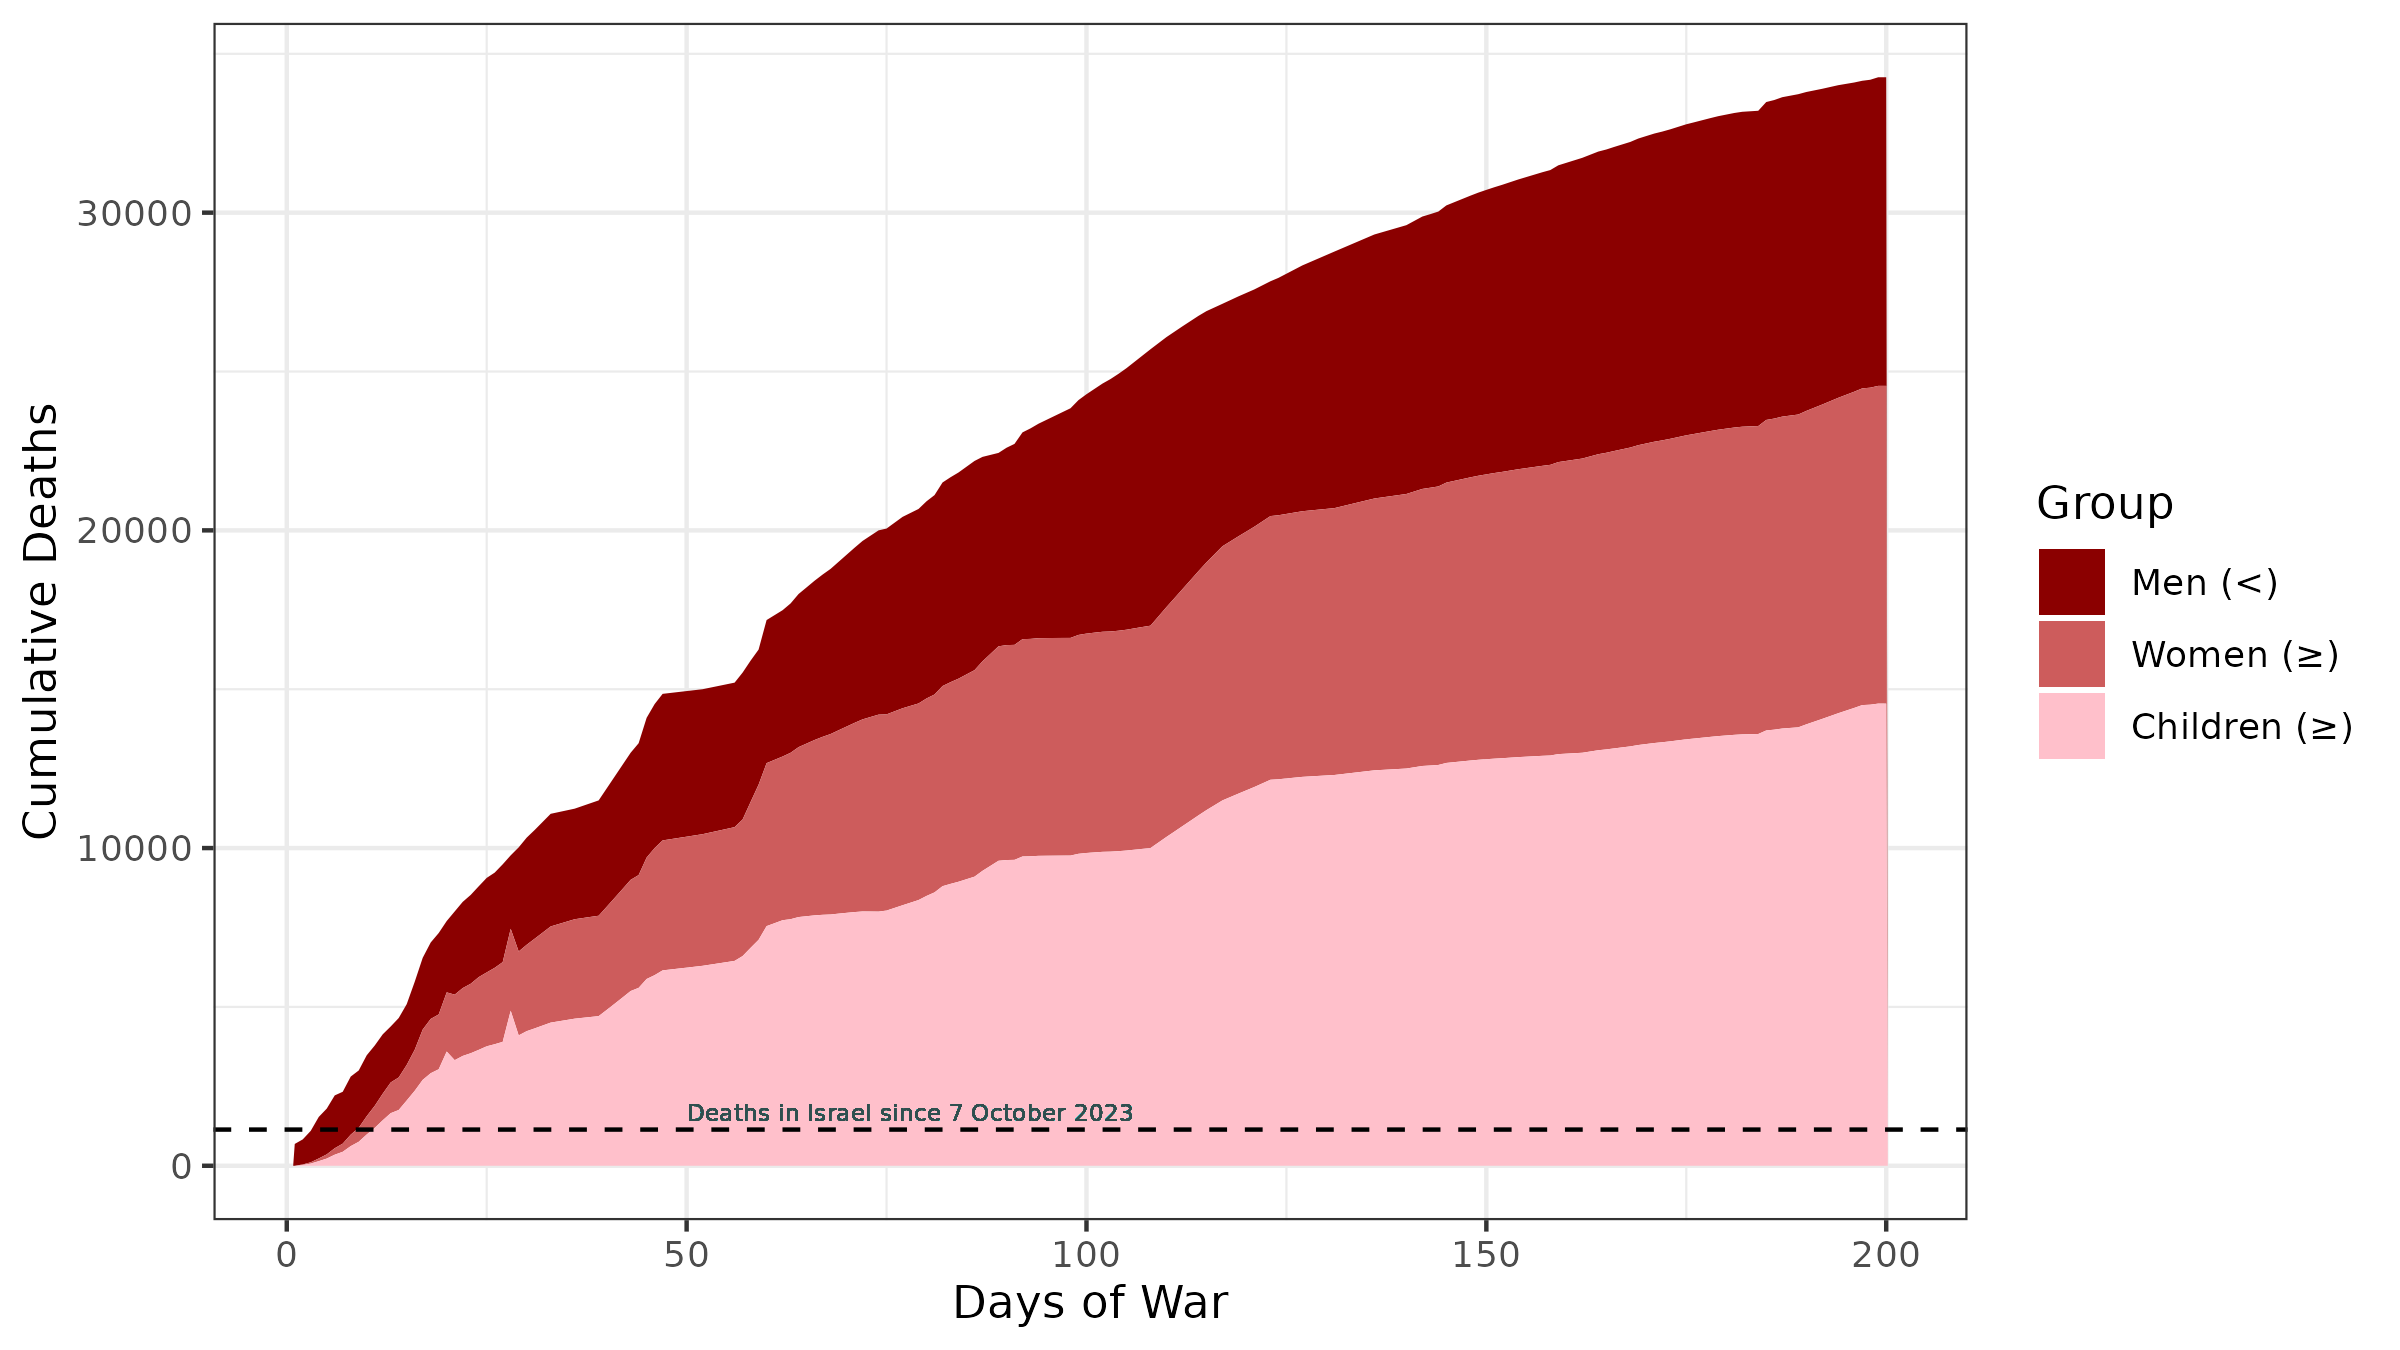
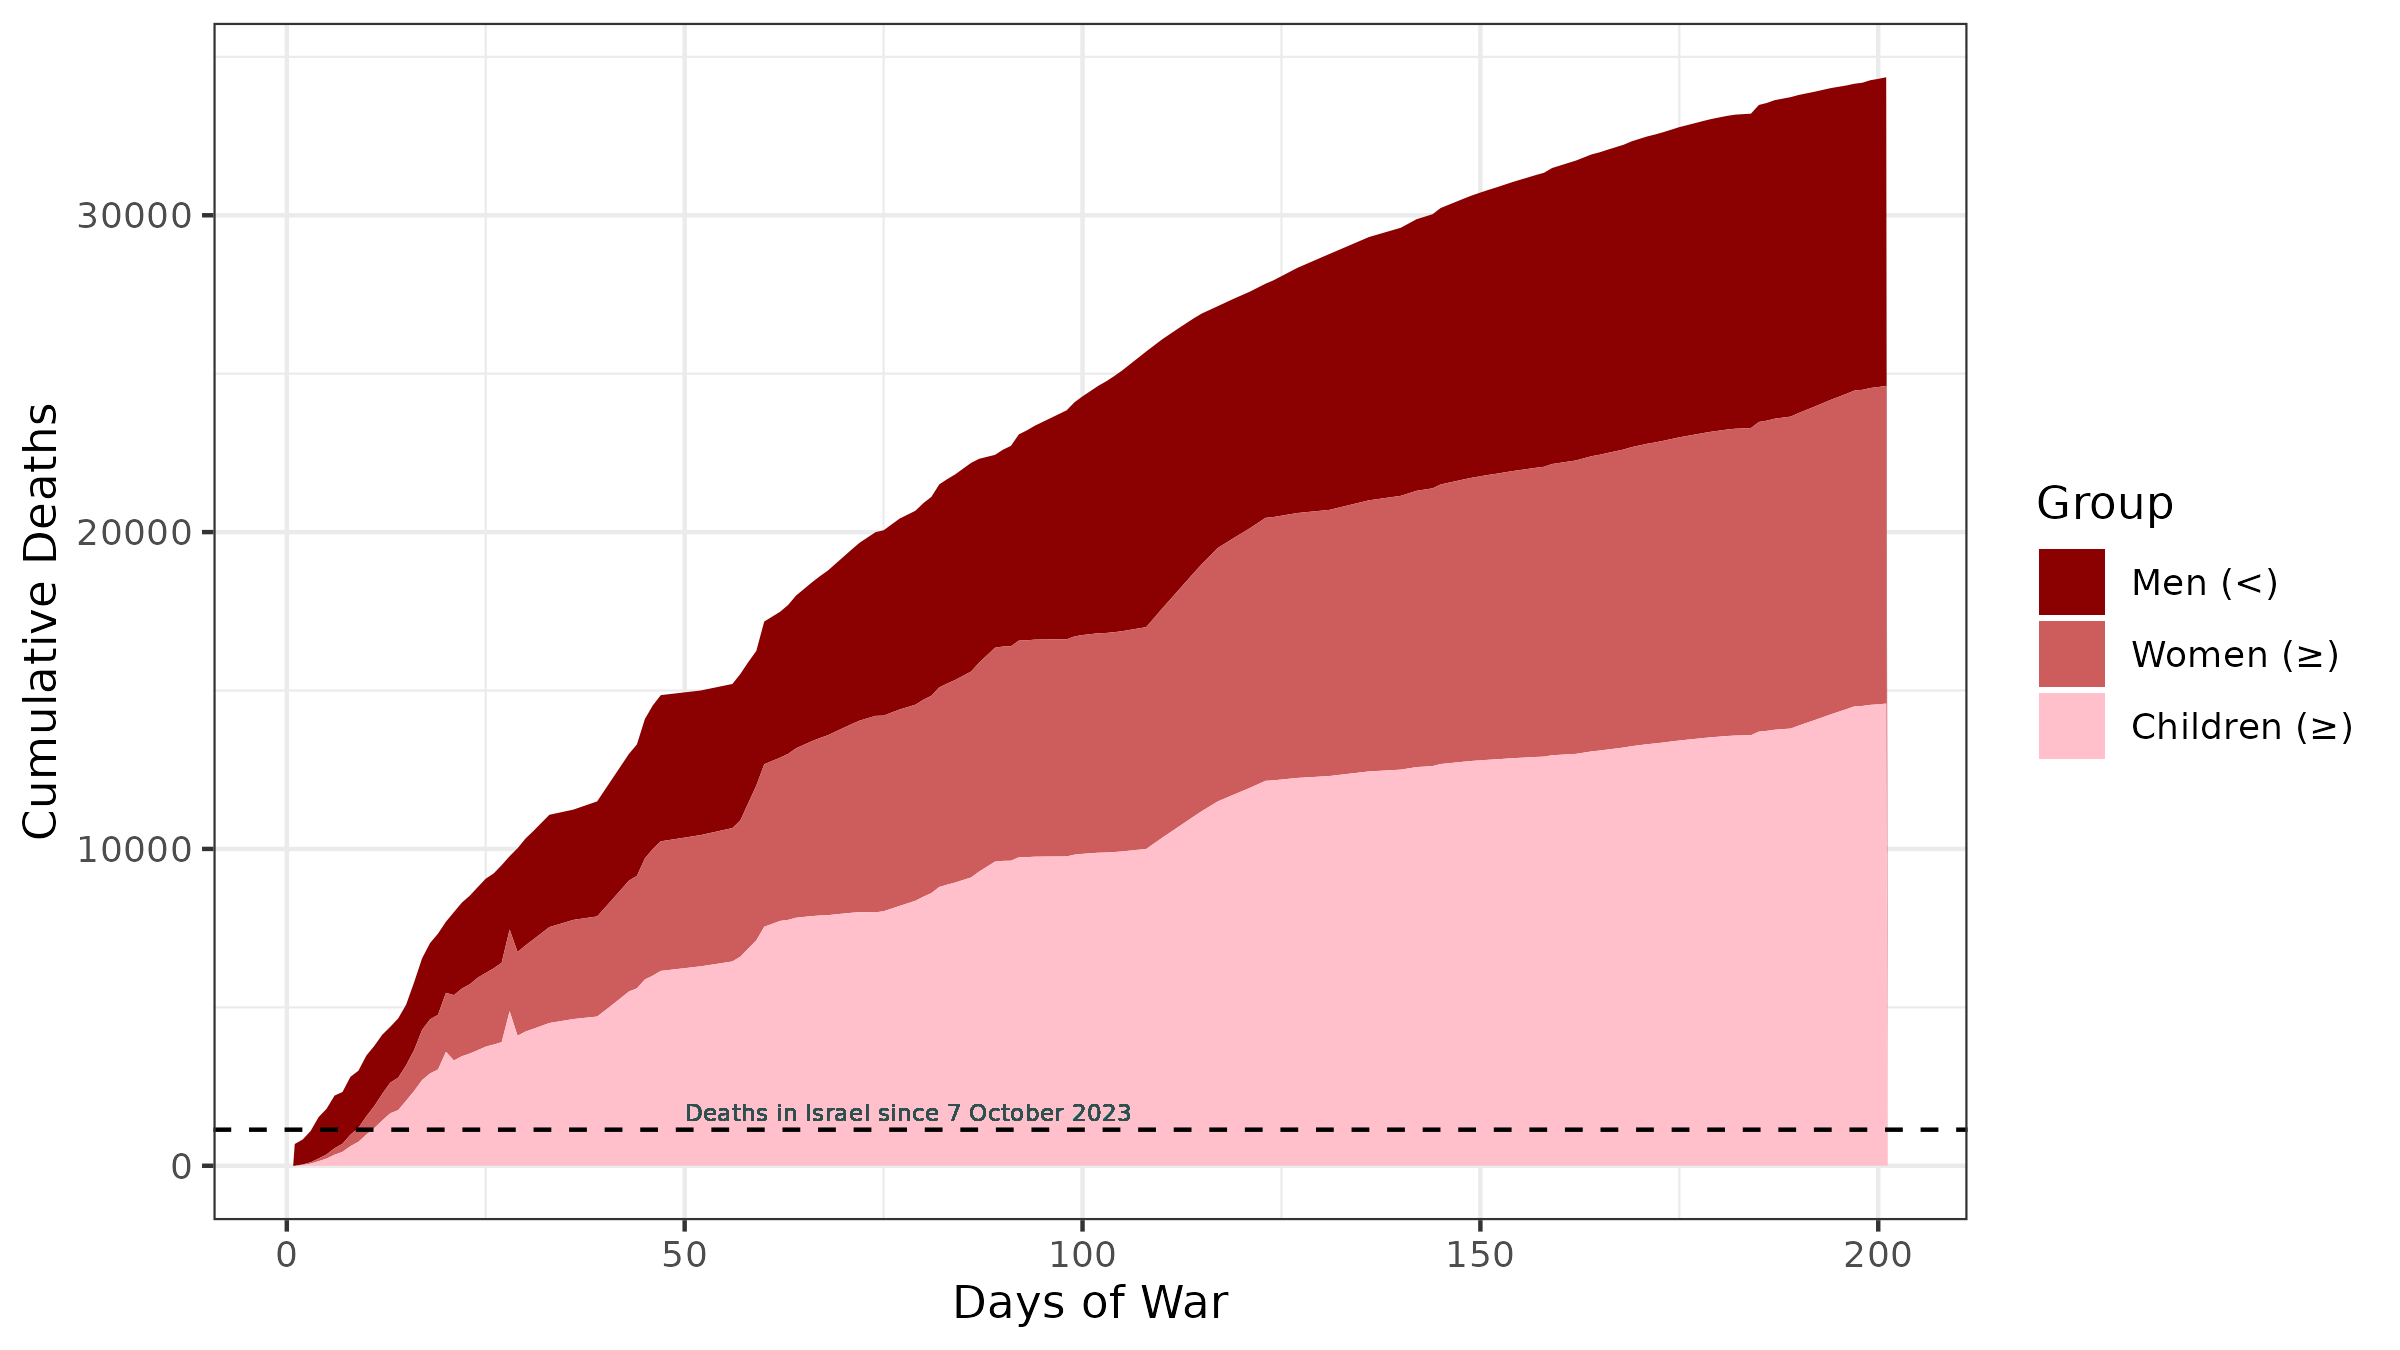
Updated with data from 26 April 2024

diff --git a/README.md b/README.md
@@ -1,5 +1,5 @@
 Tracking mortality in Palestine following Israel's assault against Gaza (2023-2024). 
-*Last updated 25 April 2024*
+*Last updated 26 April 2024*
 
 # Gaza Conflict Tracker
 
